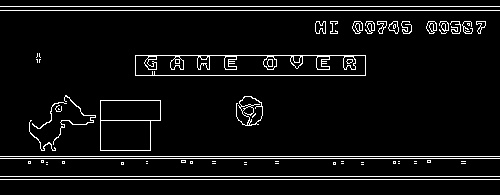
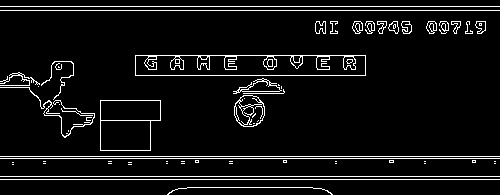
2021-10-25

diff --git a/game01_dino/dino_monolithic/game_play_by_candy.py b/game01_dino/dino_monolithic/game_play_by_candy.py
@@ -53,7 +53,7 @@ def action_cv2(image_tmp):
     if is_obstacle:
         return 1
     elif is_bird:
-        return 2
+        return 1
     return 0
 
 
